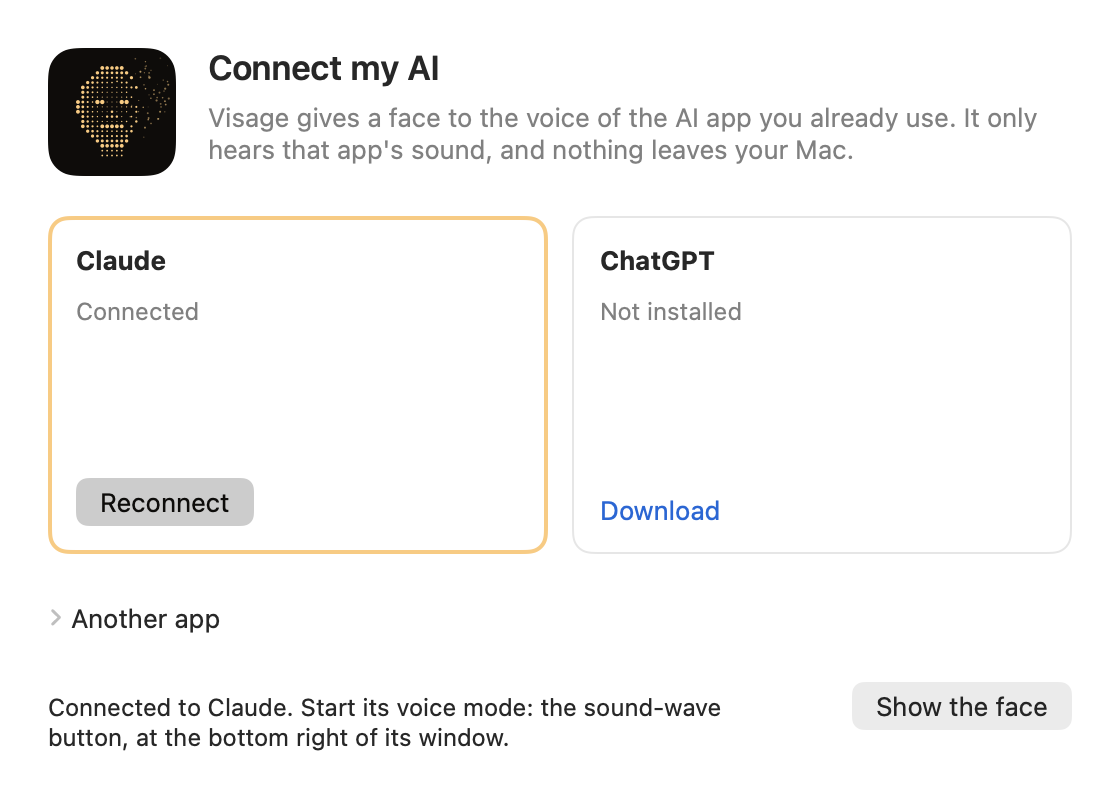
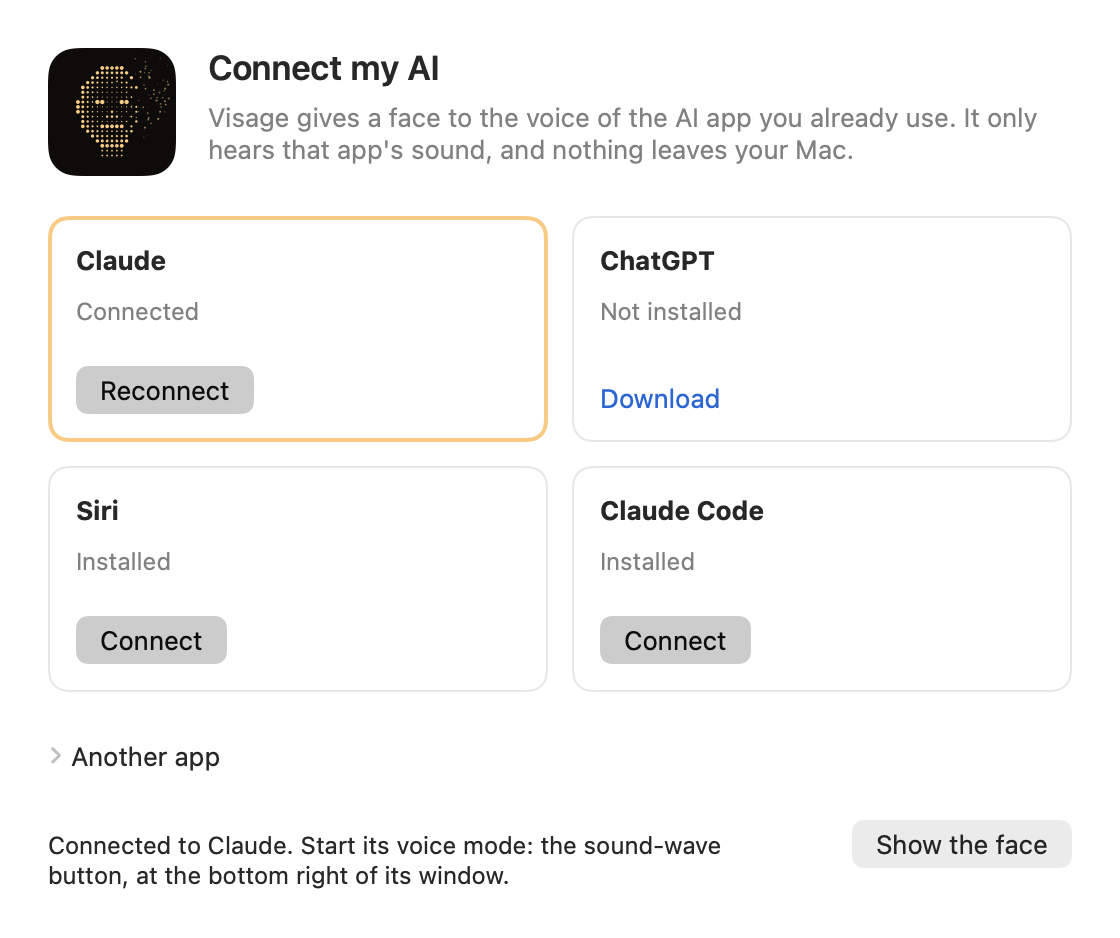
docs: Claude Code et Siri dans la doc de Visage
VISAGE.md explique comment parler à Claude Code (le plugin, /voice, la
ligne 🔊, la voix du Mac) et à Siri (la case des réglages, les réponses
vocales, la voix au passage), avec le dépannage et ce que le plugin
touche. Le README donne la commande qui installe le plugin. Les captures
montrent les nouvelles cartes et Claude Code connecté ; elles prennent la
hauteur de leur contenu, et le script fixe la case Siri d'un premier
lancement.

diff --git a/data/sources/visage/Sources/VisageApp/Snapshots.swift b/data/sources/visage/Sources/VisageApp/Snapshots.swift
@@ -34,7 +34,9 @@ enum Snapshots {
             let view = ConnectView(
                 state: state, connectedApp: app, apps: apps, otherApps: others, connect: { _ in },
                 showFace: {})
-            if !write(view, size: NSSize(width: 560, height: 520), to: directory.appending(path: "\(name).png")) {
+            // As high as its content, like the window, which takes its content's size.
+            let height = NSHostingView(rootView: view).fittingSize.height
+            if !write(view, size: NSSize(width: 560, height: height), to: directory.appending(path: "\(name).png")) {
                 failures += 1
             }
         }

diff --git a/data/doc/VISAGE.md b/data/doc/VISAGE.md
@@ -17,9 +17,11 @@ Visage
 </p>
 
 Visage gives a face to the voice of the AI you already talk to. Talk to Claude
-in its voice mode, or to ChatGPT, and a hologram face floats on your desktop
-and speaks with that voice: lips in sync, alive between sentences. It listens
-while you speak, thinks once you have finished, then answers.
+in its voice mode, to ChatGPT or to Siri, and a hologram face floats on your
+desktop and speaks with that voice: lips in sync, alive between sentences. It
+listens while you speak, thinks once you have finished, then answers. Claude
+Code, which acts on your Mac but has no voice, gets one too, through Visage's
+plugin.
 
 It costs nothing on top of the subscription you already have: no API key, no
 server, no account. Visage never talks to the AI app. It only hears the sound
@@ -37,6 +39,9 @@ Requirements
   [voice mode](https://support.claude.com/en/articles/11101966-use-voice-mode).
   The **ChatGPT** app works too, and so does any app that plays a voice, with
   no guarantee.
+* Optional: **Claude Code**, with Visage's plugin, to talk to it (see
+  *Or talk to Claude Code*); **Siri**, with its voice responses on (see
+  *Or talk to Siri*).
 * **Command Line Tools** (`xcode-select --install`) to build it. Xcode is
   optional, and neither is needed for the download.
 
@@ -53,7 +58,10 @@ file.
 | [Sources/VoiceAnalysis/](/data/sources/visage/Sources/VoiceAnalysis/) | Energy, pitch, formants, fricatives and closures, 100 times a second, with Accelerate |
 | [Sources/FaceAnimation/](/data/sources/visage/Sources/FaceAnimation/) | The 52 ARKit face weights, the head and the gaze, frame by frame: speaking, listening, thinking |
 | [Sources/HoloRenderer/](/data/sources/visage/Sources/HoloRenderer/) | The faces' glTF reader and the hologram, in Metal |
-| [Sources/Shared/](/data/sources/visage/Sources/Shared/) | The host clock everything is timed on, the brand's geometry |
+| [Sources/Shared/](/data/sources/visage/Sources/Shared/) | The host clock everything is timed on, the brand's geometry, what Visage shares with Claude Code's voice |
+| [Sources/SpokenReply/](/data/sources/visage/Sources/SpokenReply/) | Claude Code's voice: the 🔊 line of its answers, its hooks' input, the choice of a voice |
+| [Sources/VisageVoice/](/data/sources/visage/Sources/VisageVoice/) | `visage-voice`, the voice that reads Claude Code's answers, inside Visage.app |
+| [claude-code/](/data/sources/visage/claude-code/) | The Claude Code plugin: its hooks hand each answer's 🔊 line to that voice |
 | [Sources/VisageApp/](/data/sources/visage/Sources/VisageApp/) | The app: menu bar, welcome, *Connect my AI*, settings, the face's window |
 | [Resources/](/data/sources/visage/Resources/) | The ten faces, and the interface's English and French strings |
 | [Tests/](/data/sources/visage/Tests/) | Swift Testing, one folder per module |
@@ -155,7 +163,7 @@ page in your browser. **ChatGPT** works the same way, and *Another app* lists
 every app currently playing sound.
 
 <p align="center">
-    <img src="/data/doc/images/visage/connect.webp" alt="Connect my AI, with the Claude and ChatGPT cards" width="560">
+    <img src="/data/doc/images/visage/connect.webp" alt="Connect my AI, with the Claude, ChatGPT, Siri and Claude Code cards" width="560">
 </p>
 
 ### 3. Allow system audio
@@ -194,7 +202,61 @@ Visage remembers all of it. On the next launches it shows nothing more: it
 reconnects to the same app, even after that app restarts, and puts the face
 back as you left it.
 
-### 5. The settings
+### 5. Or talk to Claude Code
+
+[Claude Code](https://code.claude.com/docs/en/overview) acts on your Mac: it
+reads and edits files, runs commands, opens apps, and asks before anything
+that needs your approval. It listens, with its dictation, but never speaks.
+Visage gives it a voice, then a face:
+
+1. In Claude Code, install Visage's plugin, once:
+
+   ```
+   /plugin install visage --marketplace jul6art/macos-utils
+   ```
+
+2. In Visage, connect to **Claude Code**. Its card says whether Claude Code is
+   installed; until the plugin has run, Visage shows the command above.
+3. In Claude Code, turn on its dictation with `/voice` (`/voice tap` sends
+   what you say on its own), and talk.
+
+Claude Code works as usual, then closes each answer with a line that starts
+with 🔊: one or two sentences written to be heard, never code or paths. The
+Mac's voice reads that line, and the face speaks it. Your next request hushes
+it, and when Claude Code waits for your approval, the voice says so.
+
+<p align="center">
+    <img src="/data/doc/images/visage/claude-code.webp" alt="Visage connected to Claude Code, with the command that installs its plugin" width="560">
+</p>
+
+* **The voice** is the best one installed for the answer's language, a
+  woman's for a woman's face. Premium and enhanced voices sound far better:
+  **System Settings** → **Accessibility** → **Spoken Content** → **System
+  voice** → **Manage Voices**.
+* **Visage still reads no text.** The plugin hands each 🔊 line to Visage's
+  own voice, `visage-voice`, inside Visage.app, and Visage hears its sound as
+  it hears an app's. Without Visage connected to Claude Code, the plugin does
+  nothing.
+* **Claude Code's dictation** sends your voice to Anthropic to be transcribed,
+  and needs a claude.ai account
+  ([Voice dictation](https://code.claude.com/docs/en/voice-dictation)).
+* **Why a plugin**, rather than Visage driving Claude Code: Anthropic does not
+  let a third-party app use a claude.ai subscription, and an API key is paid.
+  With the plugin, Claude Code stays as it is, its permissions included.
+
+### 6. Or talk to Siri
+
+Turn on **Siri among the AIs** in the settings' *Conversation* card: Siri gets
+its card in *Connect my AI*. Siri must answer aloud: turn on its voice
+responses in **System Settings** → **Siri**. Connect to Siri, then ask it
+something, *"Hey Siri…"*: Visage connects at its first spoken answer.
+
+Siri lowers every other sound while it speaks, so Visage cannot mute its voice
+and play it back later. The voice plays as it is, and the face follows it live,
+a few hundredths of a second behind rather than ahead. Siri does not tell when
+it listens, so the face only speaks.
+
+### 7. The settings
 
 Visage lives in the menu bar, top right of the screen, under its sign. Its menu
 says whether it is connected, shows or hides the face, switches the face and
@@ -215,6 +277,7 @@ opens with a right click on the face.
 | | **Plinth and beam**, **Flicker and glitches** | the projector under the face; the hologram's small accidents |
 | **Conversation** | | whether your AI is listening to you right now |
 | | **Hear me through the microphone** | off by default. While your AI listens to you, Visage reads how loud your voice is, and nothing else. The face then nods at your pauses and thinks once your sentence ends |
+| | **Siri among the AIs** | off by default: shows Siri's card in *Connect my AI* (see *Or talk to Siri*) |
 | **Camera** | **Follow me with the camera** | off by default. The gaze rests on you and follows you, and the head turns a little as you move |
 | **Window** | **Floating** | the default: transparent, above every window, on every desktop |
 | | **Classic** | a plain window with a title bar and a dark background, to share or record your screen |
@@ -283,7 +346,7 @@ How it works
 ------------
 
 ```
- AI app (Claude Desktop or ChatGPT), voice mode
+ AI app (Claude Desktop, ChatGPT), or Claude Code's voice
         │ that app's sound only, muted at the output while Visage taps it
         ▼
  ┌──────────────────────── Visage ─────────────────────────┐
@@ -324,6 +387,10 @@ you stop it thinks: the gaze lifts, the lips press together.
 open, without any permission and without hearing it. Visage reads that four
 times a second, so it knows when your AI listens to you.
 
+**Claude Code and Siri.** Claude Code's voice is one process, woken by your
+request, so that Visage has found it before the answer comes. Siri's voice
+passes through: Visage analyses it without muting it.
+
 **Safe to quit.** The tap is private: if Visage quits or crashes, the AI app's
 sound comes back on its own.
 
@@ -341,6 +408,9 @@ Privacy
 * **It hears one app.** Only the AI app you chose, never your other apps.
   Visage cannot see the conversation: it never reads a text, an account or a
   token.
+* **Claude Code's plugin** hands Visage's voice one sentence per answer, the
+  🔊 line, through a socket in your own temporary folder. It is spoken, then
+  dropped.
 * **The microphone option** reads your voice's level and nothing else, only
   while your AI has its own microphone open. It closes three seconds after your
   AI's.
@@ -358,6 +428,7 @@ What it touches on the machine
 | The app | `/Applications/Visage.app`, with `--install` |
 | Settings | preference domain `com.devinthehood.visage`: the AI app, the face and every setting above |
 | Permissions | *System Audio Recording*, and *Microphone* or *Camera* if you turn those options on |
+| Claude Code's voice | a socket and a lock in your temporary folder, while it runs; the plugin, in Claude Code |
 
 No login item, no `LaunchAgents` entry, nothing else written. **Quit Visage**,
 in its menu, stops everything and gives the AI app its sound back.
@@ -369,6 +440,7 @@ Removing it
 rm -rf /Applications/Visage.app
 defaults delete com.devinthehood.visage
 tccutil reset All com.devinthehood.visage    # forget the permissions
+claude plugin uninstall visage               # the Claude Code plugin, if installed
 ```
 
 The icon
@@ -402,6 +474,9 @@ Troubleshooting
 | *"Connected to Claude"*, but the face never speaks | Claude is not speaking yet: start its **voice mode**, the sound-wave button at the bottom right of its window |
 | The face speaks only when Claude reads an answer aloud | that is dictation, the microphone button: use the voice mode for a conversation |
 | An echo, or the AI interrupts itself | none was observed with Claude's voice mode, on speakers and with the 150 ms delay. If it happens with another app, use headphones, or lower **Delay** |
+| *"Connected to Claude Code"*, but it never speaks | install the plugin (*Or talk to Claude Code*), then send Claude Code a request: Visage finds its voice at the first one |
+| Claude Code's voice sounds robotic | install a premium voice for your language: **System Settings** → **Accessibility** → **Spoken Content** |
+| Siri answers in writing, and the face stays still | turn on Siri's voice responses in **System Settings** → **Siri**; asked with the keyboard, Siri may still only write |
 | The lips are late, with Bluetooth headphones | raise **Lip offset** |
 | The face is gone | the menu bar sign → **Show the face** |
 | No sign in the menu bar | the menu bar is full: quit another item, or check that Visage runs with `pgrep Visage` |

diff --git a/README.md b/README.md
@@ -19,7 +19,7 @@ Requirements
 * **macOS** (13+ for Awake and Siphon, 15+ for Visage)
 * **Command Line Tools** for the compiled utilities — `xcode-select --install`
 * **yt-dlp** and **ffmpeg** for Siphon — `brew install yt-dlp ffmpeg`
-* **Claude Desktop** or the **ChatGPT** app for Visage — it gives a face to their voice mode
+* **Claude Desktop**, the **ChatGPT** app, **Siri** or **Claude Code** for Visage — it gives a face to their voice
 
 Installation
 ------------
@@ -61,7 +61,7 @@ Utilities
 | **Custom macOS App** | Wraps any shell script into a real `.app` — the fix for GUI apps that miss your shell environment (e.g. SourceTree failing on the wrong PHP version) | [APPIFY.md](/data/doc/APPIFY.md) |
 | **Awake** | Native menu bar app that keeps the Mac and its screen awake, with durations and launch-at-login | [AWAKE.md](/data/doc/AWAKE.md) |
 | **Siphon** | Native window on top of yt-dlp: paste a link, get an MP3, M4A or MP4 — whole or just a passage — with its cover art and tags | [SIPHON.md](/data/doc/SIPHON.md) |
-| **Visage** | A hologram face for the voice of Claude or ChatGPT: lips in sync, alive between sentences, and nothing leaves the Mac | [VISAGE.md](/data/doc/VISAGE.md) |
+| **Visage** | A hologram face for the voice of Claude, ChatGPT or Siri, and a voice and a face for Claude Code: lips in sync, alive between sentences, and nothing leaves the Mac | [VISAGE.md](/data/doc/VISAGE.md) |
 
 ### Custom macOS App
 
@@ -98,6 +98,11 @@ sh data/sources/visage/build.sh --install
 ```
 
 Then open Visage, pick Claude, allow system audio, and start Claude's voice mode.
+To talk to Claude Code instead, install Visage's plugin in it:
+
+```shell
+/plugin install visage --marketplace jul6art/macos-utils
+```
 
 → [full documentation](data/doc/VISAGE.md)
 
